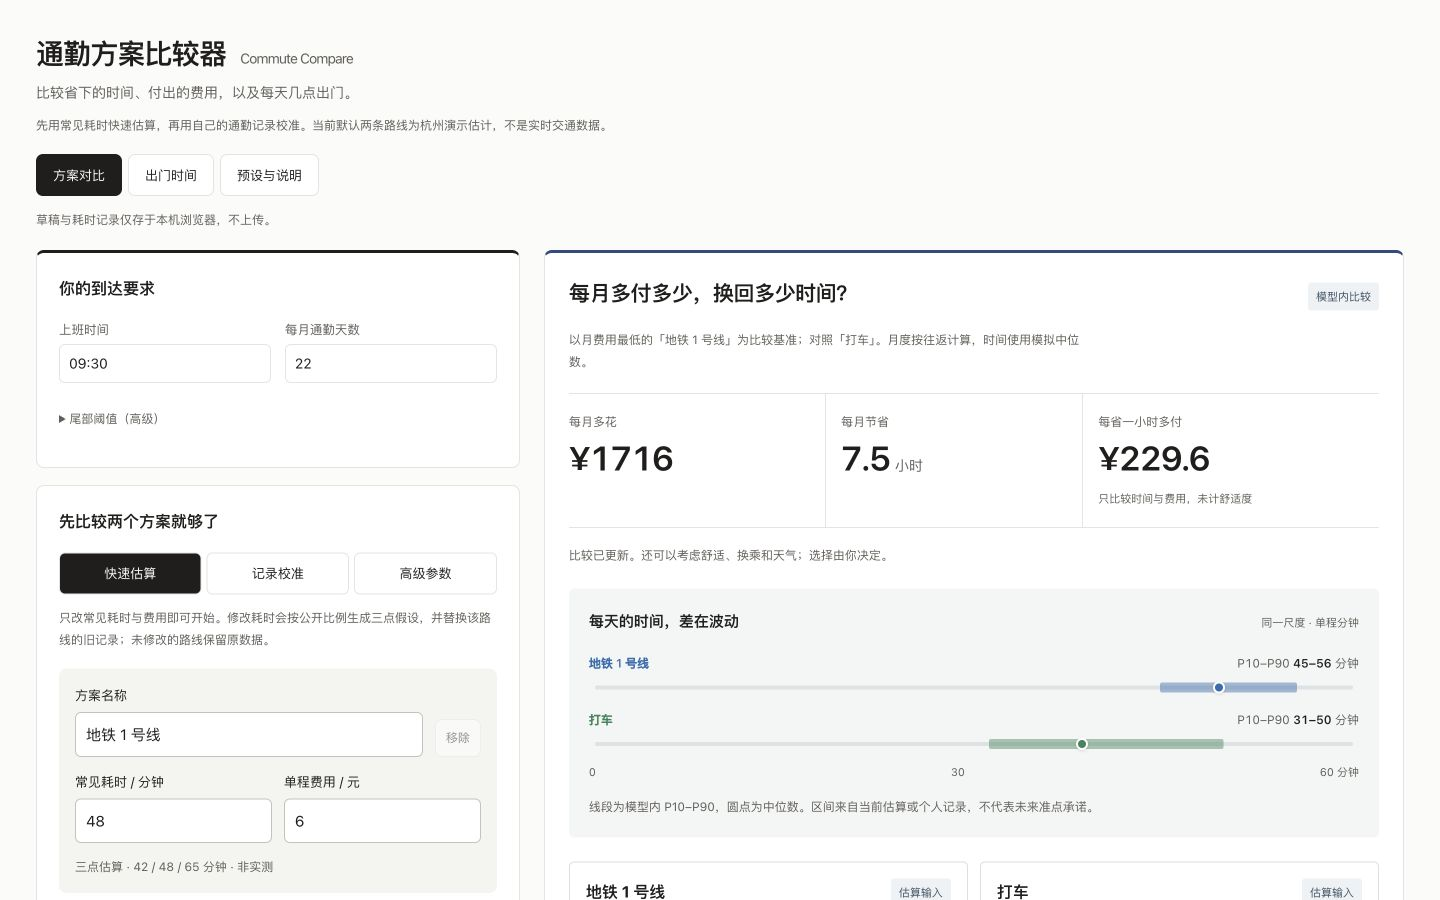
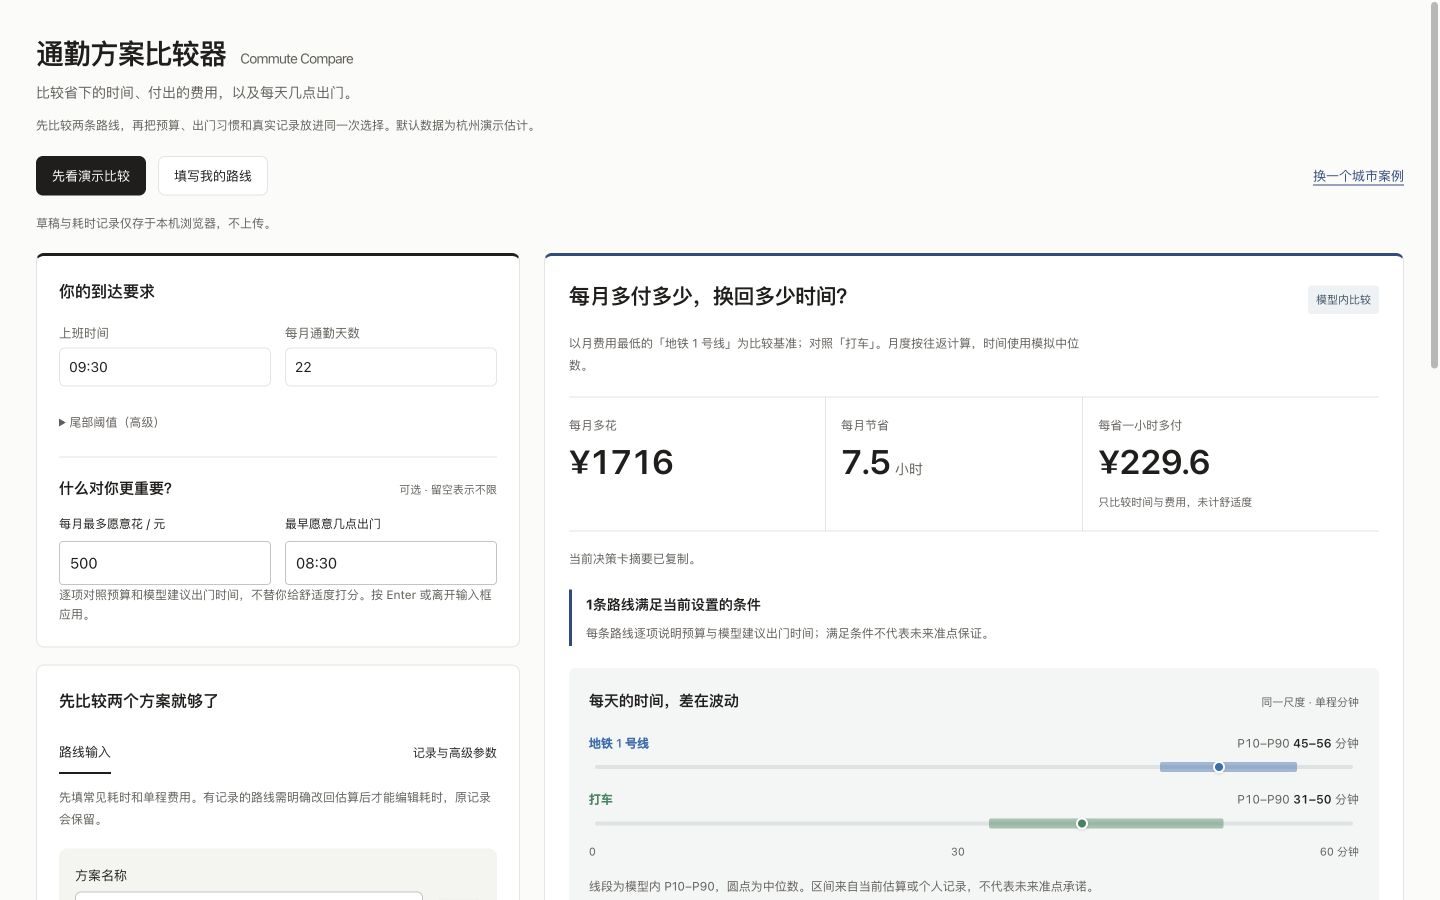
docs: record real product previews and enable development checks

diff --git a/docs/PERSONAL-ROUTE-20261101.md b/docs/PERSONAL-ROUTE-20261101.md
@@ -25,3 +25,7 @@
 `node --test scripts/test-personal-route.mjs` 检查条件边界、少量记录积累、三条开始校准、估算/记录恢复、坏记录不应用、旧草稿/v1决策读取、条件改变后快照失效。原分布与决策检查继续保留。
 
 原模型版本不变；本轮未接地图或模型，不验证真实未来迟到率。月度按往返、返程同分布计算，预算与最早出门条件只是用户给出的边界。浏览器任务验收另记，不将开发者操作成功率写成真实用户完成率。
+
+## 浏览器补充
+
+本地8830在桌面完成冲突条件、选择、记录1→3条校准、估算／记录恢复、字段错误保持、摘要复制；在390px实际完成预算、理由、选择、JSON导出、单次记录预演与旧选择失效。768px与1440px检查了布局；没有横向页面溢出。输入为虚构验收数据，不是实际通勤观测。
